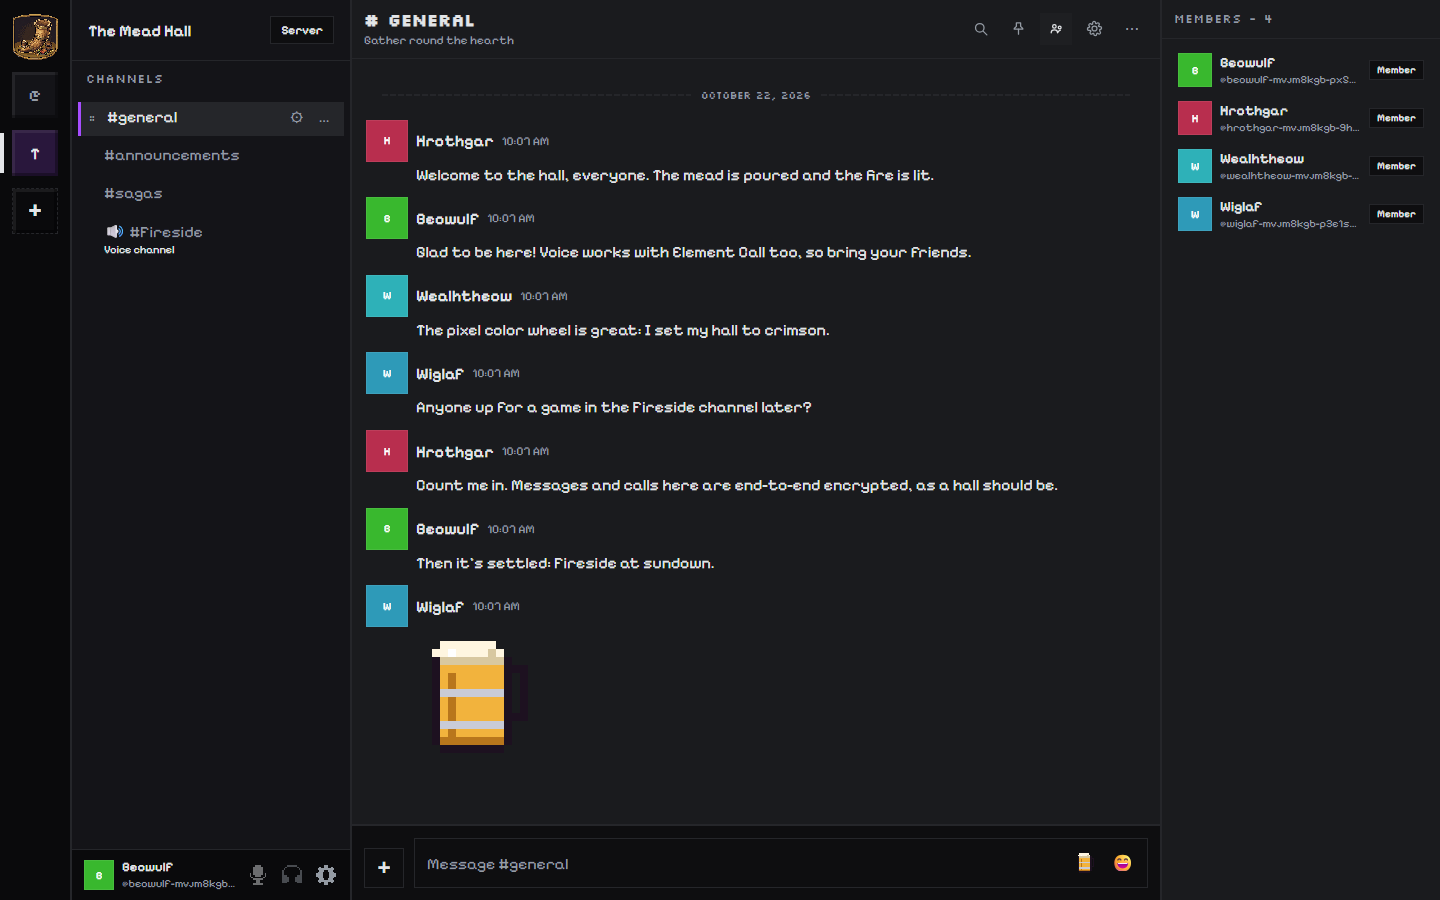
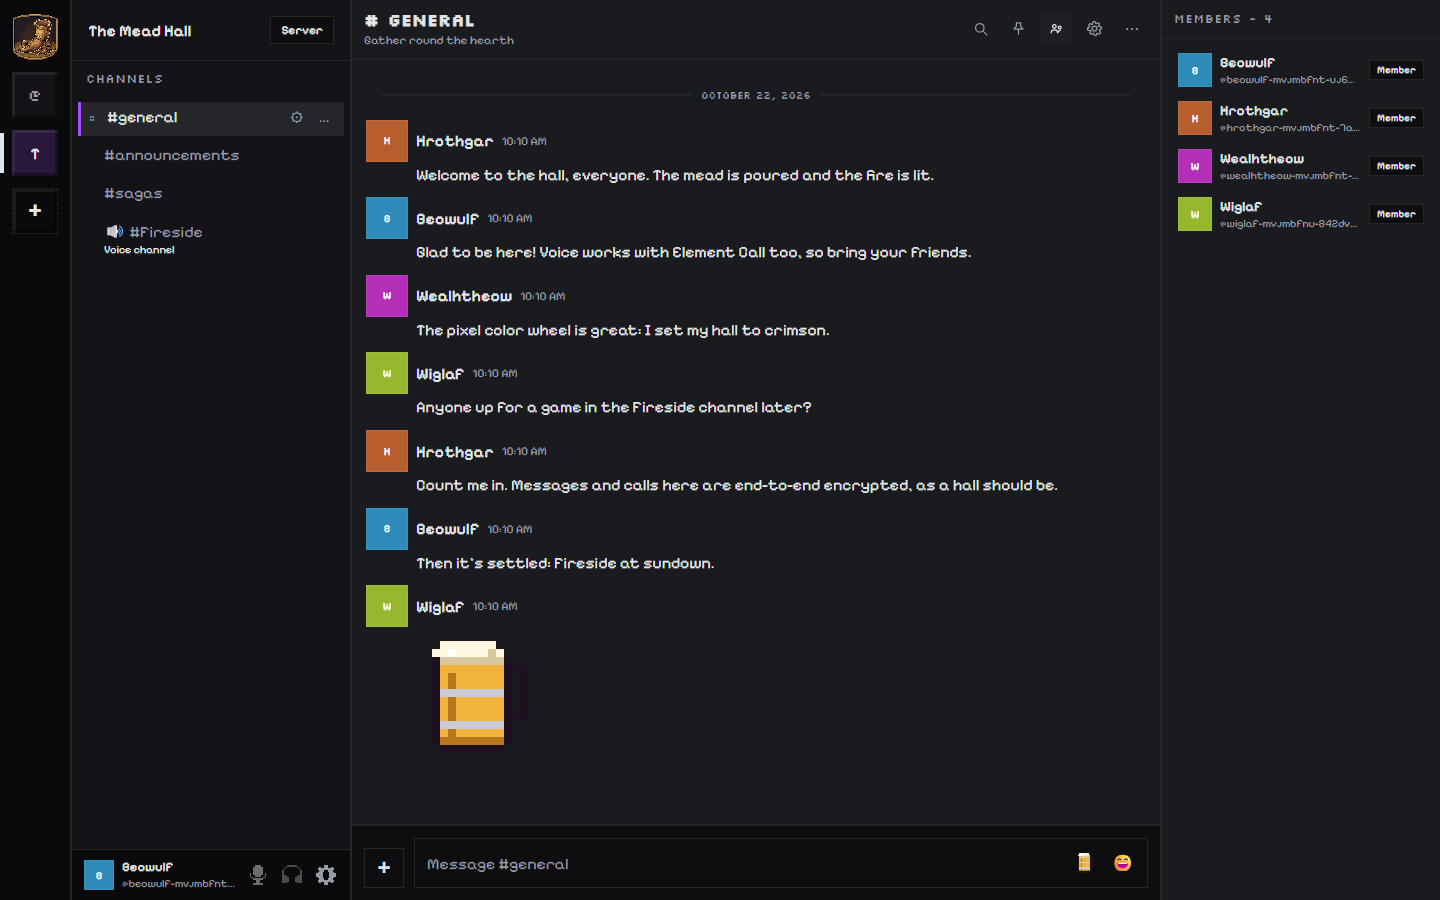
feat(ui): selectable fonts
Settings > Appearance > Font offers Pixel (default: Pixelify Sans and
Silkscreen), Pixel headings (readable body text) and System. Stored as
appearance.fontStyle and applied as data-font on <html>, which swaps
the two font variables every style uses. Unknown saved values fall
back to Pixel. Documented in CLAUDE.md; screenshots recaptured.

diff --git a/apps/web/src/ui/settings/user/settingsStore.ts b/apps/web/src/ui/settings/user/settingsStore.ts
@@ -1,6 +1,8 @@
 import { DEFAULT_ACCENT_COLOR, accentTokens, normalizeHexColor } from "../../theme/accentColor";
 
 export type AppTheme = "dark" | "light";
+// Pixel fonts everywhere, pixel headings with a readable body font, or the system font throughout.
+export type FontStyle = "pixel" | "mixed" | "system";
 
 export interface AppearanceSettings {
     theme: AppTheme;
@@ -9,6 +11,7 @@ export interface AppearanceSettings {
     closeOnWindowCloseMinimize: boolean;
     // Theme accent picked with the pixel color wheel.
     accentColor: string;
+    fontStyle: FontStyle;
     chatLineLengthCh: number;
     showSpaceChannelAvatars: boolean;
 }
@@ -53,6 +56,7 @@ const DEFAULT_SETTINGS: UserLocalSettings = {
         showTimestamps: true,
         closeOnWindowCloseMinimize: true,
         accentColor: DEFAULT_ACCENT_COLOR,
+        fontStyle: "pixel",
         chatLineLengthCh: 0,
         showSpaceChannelAvatars: false,
     },
@@ -99,6 +103,8 @@ function normalizeSettings(raw: unknown): UserLocalSettings {
     const closeOnWindowCloseMinimize = appearance.closeOnWindowCloseMinimize !== false;
     const showSpaceChannelAvatars = appearance.showSpaceChannelAvatars === true;
     const accentColor = normalizeHexColor(appearance.accentColor) ?? DEFAULT_ACCENT_COLOR;
+    const fontStyle: FontStyle =
+        appearance.fontStyle === "mixed" || appearance.fontStyle === "system" ? appearance.fontStyle : "pixel";
     const chatLineLengthChRaw = typeof appearance.chatLineLengthCh === "number" ? appearance.chatLineLengthCh : 0;
     const chatLineLengthCh =
         Number.isFinite(chatLineLengthChRaw) && chatLineLengthChRaw > 0
@@ -121,6 +127,7 @@ function normalizeSettings(raw: unknown): UserLocalSettings {
             showTimestamps,
             closeOnWindowCloseMinimize,
             accentColor,
+            fontStyle,
             chatLineLengthCh,
             showSpaceChannelAvatars,
         },
@@ -185,6 +192,7 @@ export function applyAppearanceTheme(settings: AppearanceSettings): void {
 
     const root = document.documentElement;
     root.setAttribute("data-theme", settings.theme);
+    root.setAttribute("data-font", settings.fontStyle);
     for (const [name, value] of Object.entries(accentTokens(settings.accentColor, settings.theme))) {
         root.style.setProperty(name, value);
     }

diff --git a/apps/web/src/ui/settings/user/tabs/AppearanceTab.tsx b/apps/web/src/ui/settings/user/tabs/AppearanceTab.tsx
@@ -75,6 +75,29 @@ export function AppearanceTab({
             </div>
 
             <div className="settings-section-card">
+                <h3>Font</h3>
+                <div className="settings-theme-row" role="group" aria-label="Font">
+                    {(
+                        [
+                            ["pixel", "Pixel"],
+                            ["mixed", "Pixel headings"],
+                            ["system", "System"],
+                        ] as const
+                    ).map(([fontStyle, label]) => (
+                        <button
+                            key={fontStyle}
+                            type="button"
+                            className={`settings-theme-button${settings.fontStyle === fontStyle ? " is-active" : ""}`}
+                            aria-pressed={settings.fontStyle === fontStyle}
+                            onClick={() => onChange({ ...settings, fontStyle })}
+                        >
+                            {label}
+                        </button>
+                    ))}
+                </div>
+            </div>
+
+            <div className="settings-section-card">
                 <h3>Theme color</h3>
                 <p className="settings-tab-description">Pick any color; it's adjusted to stay readable in light and dark themes.</p>
                 <PixelColorWheel

diff --git a/apps/web/test/unit-tests/ui/settings/settingsStore.test.ts b/apps/web/test/unit-tests/ui/settings/settingsStore.test.ts
@@ -144,3 +144,18 @@ describe("settingsStore", () => {
         expect(document.documentElement.getAttribute("data-theme")).toBe("light");
     });
 });
+
+describe("font setting", () => {
+    it("defaults to pixel fonts and rejects unknown values", () => {
+        localStorage.setItem(STORAGE_KEY, JSON.stringify({ appearance: { fontStyle: "comic-sans" } }));
+        expect(loadUserLocalSettings().appearance.fontStyle).toBe("pixel");
+
+        localStorage.setItem(STORAGE_KEY, JSON.stringify({ appearance: { fontStyle: "mixed" } }));
+        expect(loadUserLocalSettings().appearance.fontStyle).toBe("mixed");
+    });
+
+    it("applies the font mode to the document", () => {
+        applyAppearanceTheme({ ...loadUserLocalSettings().appearance, fontStyle: "system" });
+        expect(document.documentElement.getAttribute("data-font")).toBe("system");
+    });
+});

diff --git a/apps/web/src/ui/styles/pixel.css b/apps/web/src/ui/styles/pixel.css
@@ -529,3 +529,14 @@ select {
 .rs-member-row.is-offline:hover {
     opacity: 1;
 }
+
+/* Font setting (Appearance): "pixel" (default) keeps both pixel fonts; "mixed" keeps pixel headings with a
+   readable body font; "system" uses the system font throughout. Set as data-font on <html>. */
+[data-font="mixed"] {
+    --font-pixel-body: "Inter", "Segoe UI", system-ui, -apple-system, sans-serif;
+}
+
+[data-font="system"] {
+    --font-pixel-body: "Inter", "Segoe UI", system-ui, -apple-system, sans-serif;
+    --font-pixel-display: "Inter", "Segoe UI", system-ui, -apple-system, sans-serif;
+}

diff --git a/CLAUDE.md b/CLAUDE.md
@@ -107,6 +107,10 @@ It replaces the server's defaults, so the creator loses rights, and on room vers
 - Theme: **pixel art everywhere** (`ui/styles/pixel.css`, imported last). Square corners, stepped borders, bevelled action buttons (not text-like buttons), Pixelify Sans + Silkscreen bundled via @fontsource (CSP only allows local fonts).
 - Accent: default **bright purple `#a64dff`**, user-selectable with the **pixel color wheel** (`ui/theme/PixelColorWheel.tsx`, Appearance settings). `accentTokens()` derives `--primary/--accent/--accent-soft/--primary-rgb/--on-primary`, shifting the shade until it has 3:1 contrast with the background and picking button text for 4.5:1. CSS defaults in App.css/settings/styles.css must match `accentTokens(DEFAULT_ACCENT_COLOR, theme)`. The encrypted-channel badge stays **green** on purpose (security signal).
 - Saved appearance is applied at startup (App.tsx), so the sign-in screen uses it.
+- **Font setting** (owner request): Settings → Appearance → Font: `pixel` (default, Pixelify Sans + Silkscreen),
+  `mixed` (pixel headings, readable system body font) or `system` (system font throughout). Stored as
+  `appearance.fontStyle`; `applyAppearanceTheme` sets `data-font` on `<html>`; pixel.css swaps
+  `--font-pixel-body` / `--font-pixel-display` per mode. All UI fonts must go through those two variables.
 
 ### Testing
 - Integration tests run against a real Synapse on **room versions 11 and 12** (CI matrix). They cover the import, the MatrixRTC membership as Element Call reads it, member call permissions, and real Olm to-device media key exchange between two crypto clients.
